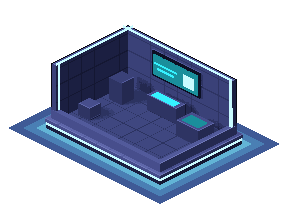
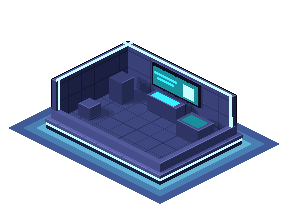
GRID-18: no bot stands where a building hides it
The server tower of the sector in front hides the strip from the fountain to this sector's
near corner, and the workshop's back wall hid the bots at the works. The forecourt, the
plaza and the dock move out of that strip (the dock to the relay), four bots fit inside the
workshop, its walls are lower, and a badge sits just over the helmet.

Changed region(s): [[0.1562, 0.0938, 0.8438, 0.5]]

diff --git a/Assets/TheGrid/Tests/IsoTests.cs b/Assets/TheGrid/Tests/IsoTests.cs
@@ -126,7 +126,7 @@ namespace TheGrid.Core.Tests
             foreach (var place in Places)
                 for (int i = 0; i < 6; i++)
                 {
-                    int slot = place == Place.Workshop ? i + 2 : i;     // the workshop's first two stand inside it, on purpose
+                    int slot = place == Place.Workshop ? i + 4 : i;     // the workshop's first four stand inside it, on purpose
                     var at = Iso.BotSpot(cell, place, slot);
                     // back from pixels to the tile under the spot
                     float col = (at.x / (Iso.TileW / 2) - at.y / (Iso.TileH / 2)) / 2, row = (-at.y / (Iso.TileH / 2) - at.x / (Iso.TileW / 2)) / 2;
@@ -136,13 +136,31 @@ namespace TheGrid.Core.Tests
         }
 
         [Test]
-        public void TheWorkshopsFirstTwoStandInsideIt()
+        public void TheWorkshopsFirstFourStandInsideIt()
         {
             var cell = new Vector2Int(-1, 3);
             var o = Iso.PlotOrigin(cell);
             Assert.AreEqual(Iso.Point(o.x + 9.5f, o.y + 6.0f), Iso.BotSpot(cell, Place.Workshop, 0));    // at the terminal
             Assert.AreEqual(Iso.Point(o.x + 10.5f, o.y + 6.6f), Iso.BotSpot(cell, Place.Workshop, 1));   // at the bench
-            Assert.AreEqual(Iso.Point(o.x + 8.7f, o.y + 8.25f), Iso.BotSpot(cell, Place.Workshop, 2));   // the rest wait outside
+            Assert.AreEqual(Iso.Point(o.x + 10.0f, o.y + 7.0f), Iso.BotSpot(cell, Place.Workshop, 2));   // two more on the open floor
+            Assert.AreEqual(Iso.Point(o.x + 10.8f, o.y + 7.3f), Iso.BotSpot(cell, Place.Workshop, 3));
+            Assert.AreEqual(Iso.Point(o.x + 8.7f, o.y + 8.25f), Iso.BotSpot(cell, Place.Workshop, 4));   // the rest wait outside
+        }
+
+        [Test]
+        public void NoBotStandsBehindTheTowerOfTheSectorInFront()
+        {
+            // The sector straight down the screen from this one has its server tower at the corner nearest us. The tower's
+            // shaft is 84 pixels to each side of its ground point and 272 high; a bot is 10 to each side of where it stands.
+            var here = new Vector2Int(0, 0);
+            var tower = Iso.StructureSpot(new Vector2Int(1, 1), Structure.ServerTower);
+            foreach (var place in Places)
+                for (int slot = 0; slot < (place == Place.Workshop ? 4 : 6); slot++)   // shortcut in Iso.BotSpot: a fifth bot at the workshop may be hidden
+                {
+                    var at = Iso.BotSpot(here, place, slot);
+                    bool clear = Mathf.Abs(at.x - tower.x) >= 94 || at.y >= tower.y + 272;
+                    Assert.IsTrue(clear, place + " slot " + slot + " stands behind the next sector's tower");
+                }
         }
 
         [Test]
@@ -152,9 +170,9 @@ namespace TheGrid.Core.Tests
             var shift = Iso.Point(Iso.PlotOrigin(b).x, Iso.PlotOrigin(b).y) - Iso.Point(0, 0);
             foreach (var place in Places)
                 Assert.Less((Iso.BotSpot(a, place, 3) + shift - Iso.BotSpot(b, place, 3)).magnitude, .001f, place.ToString());   // to within float rounding
-            Assert.AreEqual(Iso.Point(3.5f, 9.75f), Iso.BotSpot(a, Place.Forecourt, 0));
-            Assert.AreEqual(Iso.Point(4.5f, 9.75f), Iso.BotSpot(a, Place.Forecourt, 1));
-            Assert.AreEqual(Iso.Point(3.5f, 10.5f), Iso.BotSpot(a, Place.Forecourt, 6));
+            Assert.AreEqual(Iso.Point(2.0f, 10.25f), Iso.BotSpot(a, Place.Forecourt, 0));
+            Assert.AreEqual(Iso.Point(3.0f, 10.25f), Iso.BotSpot(a, Place.Forecourt, 1));
+            Assert.AreEqual(Iso.Point(2.0f, 10.85f), Iso.BotSpot(a, Place.Forecourt, 6));
         }
 
         [Test]

diff --git a/Assets/TheGrid/Core/Iso.cs b/Assets/TheGrid/Core/Iso.cs
@@ -48,18 +48,25 @@ namespace TheGrid.Core
         };
 
         // Where the bots of each place stand: the first spot, how many to a row, the step along the row and the step to the next
-        // row. The numbers are chosen so that fifty bots at every place are four hundred different points.
+        // row. The numbers are chosen so that fifty bots at every place are four hundred different points, and so that the
+        // first six of a place are never behind the server tower of the sector in front: that tower hides the strip from the
+        // fountain to this sector's near corner.
         static readonly (float col, float row, int perRow, float along, float away)[] Spots =
         {
             (0.25f, 3.25f, 3, 1f, .5f),     // ServerTower: in front of its door
             (4.25f, 3.25f, 3, 1f, .5f),     // ReviewHall
-            (9.25f, 3.25f, 3, 1f, .5f),     // Works
+            (9.25f, 2.95f, 3, 1f, .5f),     // Works: close to its door, clear of the workshop's back wall
             (0.4f, 8.25f, 4, 1f, .5f),      // AssemblyBay
-            (8.7f, 8.25f, 4, 1f, .5f),      // Workshop, from its third bot
-            (4.4f, 7.4f, 4, 1f, .5f),       // Plaza: done, in front of the fountain
-            (3.5f, 9.75f, 6, 1f, .75f),     // Forecourt: every bot that needs the owner, in the open at the front
-            (9.6f, 9.75f, 3, .8f, .75f),    // Dock: offline
+            (8.7f, 8.25f, 4, 1f, .5f),      // Workshop, from its fifth bot
+            (4.3f, 7.0f, 3, .6f, .45f),     // Plaza: done, at the fountain's near left
+            (2.0f, 10.25f, 6, 1f, .6f),     // Forecourt: every bot that needs the owner, in the open at the front left, far enough
+                                            // forward that its badge is not on the head of a bot at the assembly bay
+            (6.9f, 2.3f, 3, .6f, .5f),      // Dock: offline, parked in front of the relay
         };
+
+        // The workshop's walls are cut away so its first four bots can be seen inside: at the terminal, at the bench, and
+        // two on the open floor.
+        static readonly Vector2[] InTheWorkshop = { new Vector2(9.5f, 6.0f), new Vector2(10.5f, 6.6f), new Vector2(10.0f, 7.0f), new Vector2(10.8f, 7.3f) };
 
         public static RectInt Footprint(Structure s) => Footprints[(int)s];
 
@@ -76,10 +83,10 @@ namespace TheGrid.Core
             var o = PlotOrigin(cell);
             if (place == Place.Workshop)
             {
-                // The workshop's walls are cut away so its first two bots can be seen inside: one at the terminal, one at the bench.
-                if (slot == 0) return Point(o.x + 9.5f, o.y + 6.0f);
-                if (slot == 1) return Point(o.x + 10.5f, o.y + 6.6f);
-                slot -= 2;
+                if (slot < InTheWorkshop.Length) return Point(o.x + InTheWorkshop[slot].x, o.y + InTheWorkshop[slot].y);
+                // shortcut: a fifth bot waits outside in front, where the next sector's tower can hide it. Give the workshop
+                // a bigger floor if five sessions testing at once in one repo turns out to be common.
+                slot -= InTheWorkshop.Length;
             }
             var s = Spots[(int)place];
             return Point(o.x + s.col + slot % s.perRow * s.along, o.y + s.row + slot / s.perRow * s.away);

diff --git a/tools/art/buildings.py b/tools/art/buildings.py
@@ -170,7 +170,7 @@ def assembly_bay():
 def test_workshop():
     """Running tests. Told by: the two near walls cut to a kerb, and inside a terminal with a wall screen, and a bench.
     A bot stands at the middle of the floor, facing the screen; a second by the bench."""
-    w, d, h, lit = 3.4, 2.4, 1.4, "cyanw"
+    w, d, h, lit = 3.4, 2.4, 1.0, "cyanw"      # low walls: bots stand at the works right behind it, and must be seen whole
     glow(0, 0, w + .16, d + .16, "cyan")
     box(0, 0, 0, w + .16, d + .16, .1, "g3", "g1", "g0")
     light(0, -d / 2 - .08, .1, w + .16, .03, .07, "cyanw"); light(w / 2 + .08, 0, .1, .03, d + .16, .07, "cyanw")
@@ -183,9 +183,9 @@ def test_workshop():
     light(0, d / 2 - .15, .25 + h, w, .03, .05, "cyanw"); light(-w / 2 + .15, 0, .25 + h, .03, d, .05, "cyanw")
     box(0, -d / 2 + .06, .25, w, .12, .22, *TRIM); box(w / 2 - .06, 0, .25, .12, d, .22, *TRIM)  # the near ones are cut to a kerb
     light(0, -d / 2 + .06, .47, w, .12, .01, "c0"); light(w / 2 - .06, 0, .47, .12, d, .01, "c0")
-    box(0, d / 2 - .18, .85, 1.5, .05, .62, "k1"); light(0, d / 2 - .21, .9, 1.38, .02, .52, "teal")   # the wall screen
-    light(.42, d / 2 - .225, .98, .34, .012, .3, "cyanw"); light(-.3, d / 2 - .225, 1.18, .7, .012, .05, "cyan")
-    light(-.3, d / 2 - .225, 1.06, .5, .012, .05, "cyan")
+    box(0, d / 2 - .18, .6, 1.5, .05, .56, "k1"); light(0, d / 2 - .21, .65, 1.38, .02, .46, "teal")   # the wall screen
+    light(.42, d / 2 - .225, .72, .34, .012, .3, "cyanw"); light(-.3, d / 2 - .225, .95, .7, .012, .05, "cyan")
+    light(-.3, d / 2 - .225, .83, .5, .012, .05, "cyan")
     box(0, d / 2 - .5, .25, .9, .3, .4, "g5", "g3", "g2"); light(0, d / 2 - .52, .65, .7, .2, .02, "cyan")   # the terminal
     box(1.15, .45, .25, .7, .5, .4, "g5", "g3", "g2"); light(1.15, .43, .65, .5, .3, .02, "teal")            # the bench
     box(-1.2, .5, .25, .4, .4, .55, "g4", "g3", "g2"); box(-1.2, -.5, .25, .35, .35, .3, "g5", "g3", "g2")   # crates

diff --git a/Assets/TheGrid/WorldStage.cs b/Assets/TheGrid/WorldStage.cs
@@ -214,7 +214,7 @@ namespace TheGrid
                     b.shown = shown;
                     stale = true;
                 }
-                b.badge.transform.localPosition = new Vector3(0, b.data.needsOwner && up ? 46 : 44, 0);
+                b.badge.transform.localPosition = new Vector3(0, b.data.needsOwner && up ? 39 : 37, 0);   // just over the helmet
             }
             return stale;
         }
@@ -356,7 +356,7 @@ namespace TheGrid
                 b.at.localPosition = new Vector3(spot.x, spot.y, -1);   // first sight: it is simply there
                 b.badge = NewSprite("badge", null, b.at);
                 b.badge.sortingOrder = 10;   // what a bot needs from the owner is never hidden behind a building
-                b.badge.transform.localPosition = new Vector3(0, 44, 0);
+                b.badge.transform.localPosition = new Vector3(0, 37, 0);
             }
             else if (spot != b.to)
             {
